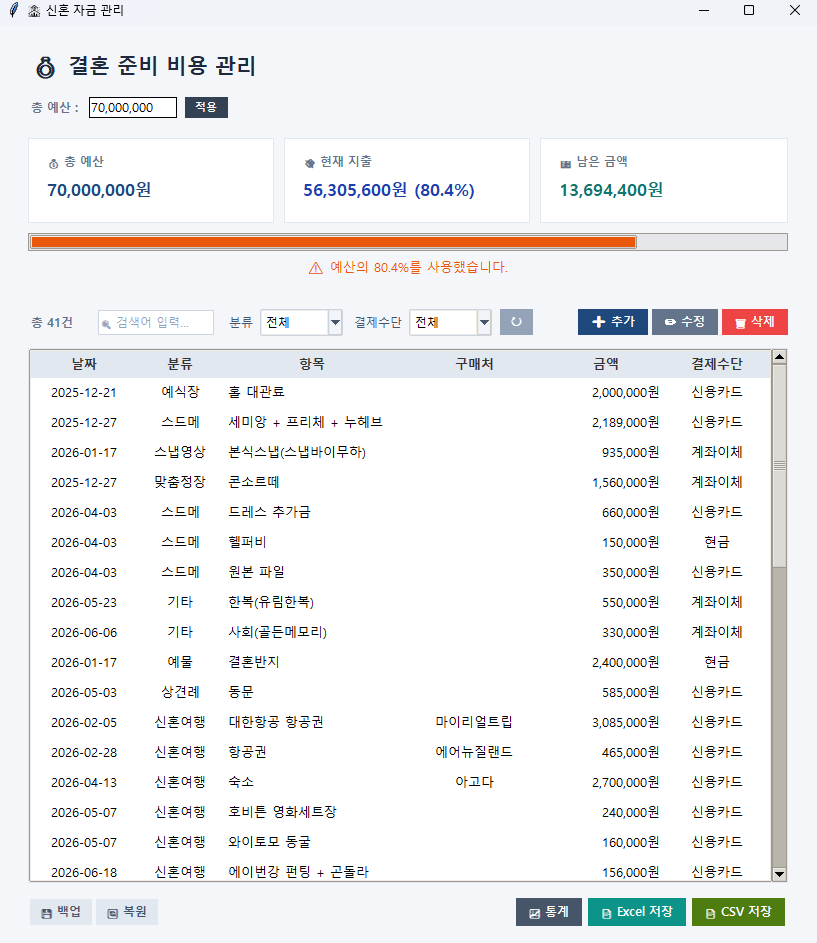
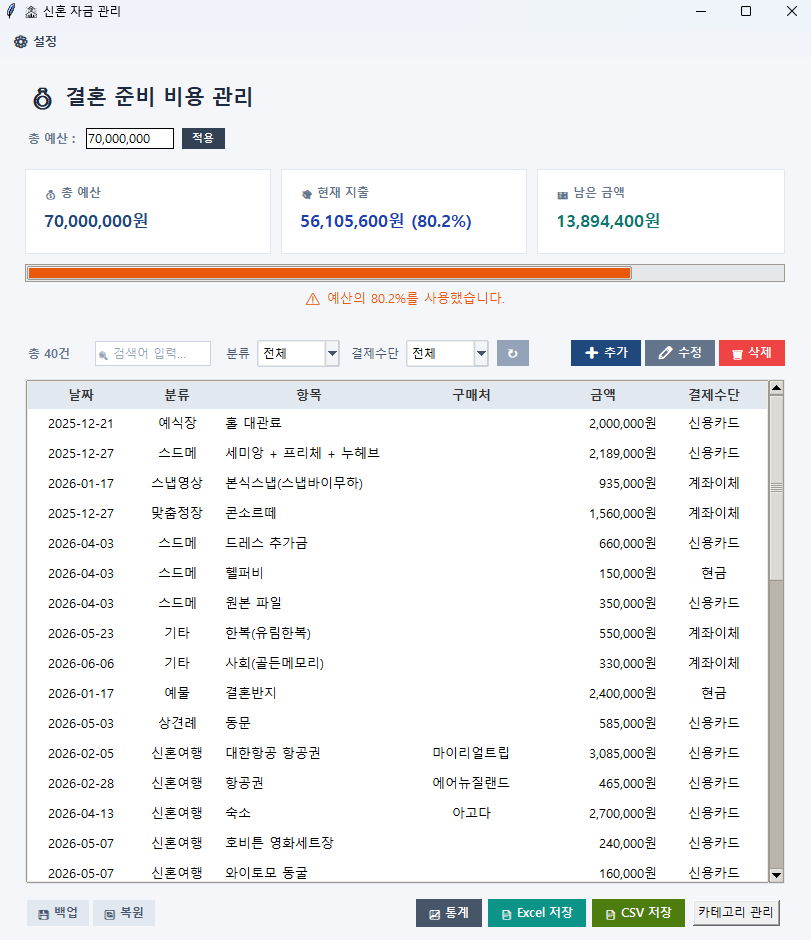
docs: update category management documentation

diff --git a/README.md b/README.md
@@ -1,12 +1,12 @@
 # 💍 WeddingMoneyManager
 
-> **Python Tkinter를 이용해 개발한 신혼 자금 관리 데스크톱 애플리케이션**
+> **Python Tkinter와 SQLite를 기반으로 개발한 신혼 자금 관리 데스크톱 애플리케이션입니다. 예산 관리, 지출 분석, 통계, Excel 리포트 생성 기능을 제공합니다.**
 
 ## 📦 Download
 
 Windows 환경에서는 PyInstaller로 빌드된 실행 파일(`WeddingMoneyManager.exe`)을 통해 사용할 수 있습니다.
 
-> Release 페이지에서 최신 버전을 다운로드할 수 있습니다.
+> Release 페이지에서 최신 Windows 실행 파일을 다운로드할 수 있습니다.
 
 --- 
 
@@ -90,6 +90,15 @@ WeddingMoneyManager는 이러한 비용을 직접 관리하기 위해 개발한 
 * [x] 카테고리별 BarChart 생성
 * [x] 월별 지출 LineChart 생성
 
+## 🗂 카테고리 관리
+
+- [x] 카테고리 추가
+- [x] 카테고리 수정
+- [x] 카테고리 삭제
+- [x] SQLite 기반 카테고리 관리
+- [x] 중복 카테고리 방지
+- [x] 사용 중인 카테고리 삭제 방지
+
 ---
 
 # 🛠 기술 스택
@@ -115,46 +124,51 @@ WeddingMoneyManager는 이러한 비용을 직접 관리하기 위해 개발한 
 WeddingMoneyManager
 │
 ├── main.py
-├── database.py
-├── database_backup.py
-├── expense_dialog.py
-├── statistics_window.py
-├── excel_export.py
-├── csv_export.py
-├── migrate_json_to_sqlite.py
 │
-├── sql/
-│   ├── init.sql
+├── database/
+│   ├── __init__.py
+│   ├── connection.py
+│   ├── init_db.py
+│   ├── expense.py
+│   ├── settings.py
+│   └── category.py
+│
+├── ui/
+│   ├── __init__.py
+│   ├── expense_dialog.py
+│   ├── statistics_window.py
+│   └── category_window.py
+│
+├── utils/
+│   ├── __init__.py
+│   ├── csv_export.py
+│   └── database_backup.py
 │
 ├── excel/
+│   ├── __init__.py
+│   ├── excel_export.py
 │   ├── chart.py
 │   ├── detail.py
 │   ├── summary.py
 │   └── style.py
 │
-├── backup/
-│   ├── app.py
-│   ├── main_backup.py
-│   └── money_backup.json
+├── resources/
+│   └── wedding.db # 배포용 초기 템플릿 DB
 │
 ├── images/
-│   ├── main.png
-│   ├── expense_dialog.png
-│   ├── excel_export_1.png
-│   ├── excel_export_2.png
-│   ├── statistics_1.png
-│   └── statistics_2.png
+│   └── README 이미지
 │
-├── resources
-│   └── wedding.db            # 배포용 초기 템플릿 DB
+├── archive/
+│   ├── app.py
+│   ├── database_legacy.py
+│   ├── main_json.py
+│   └── money_backup.json
 │
-├── icon.ico
+├── migrate_json_to_sqlite.py
 ├── WeddingMoneyManager.spec
-│
+├── icon.ico
 ├── README.md
-├── development_log.md
-├── study.md
-└── requirements.txt
+└── study.md
 ```
 `resources/wedding.db`는 배포용 초기 템플릿 DB이며, 실행 후 생성되는 사용자 데이터 DB는 별도로 관리됩니다.
 
@@ -273,6 +287,21 @@ CREATE TABLE settings (
 ```
 
 ---
+### categories
+
+| Column | Type    | Description  |
+| ------ | ------- | ------------ |
+| id     | INTEGER | 카테고리 ID (PK) |
+| name   | TEXT    | 카테고리 이름      |
+
+```sql
+CREATE TABLE categories (
+    id INTEGER PRIMARY KEY AUTOINCREMENT,
+    name TEXT UNIQUE NOT NULL
+);
+```
+
+---
 
 # 📷 화면
 
@@ -315,11 +344,17 @@ CREATE TABLE settings (
 
 <!-- ![통계](images/statistics.png) -->
 <p align="center">
-  <img src="images/statistics_1.png" width="500">
-  <img src="images/statistics_2.png" width="500">
+  <img src="images/statistics_window_1.png" width="500">
+  <img src="images/statistics_window_2.png" width="500">
 </p>
 
 ---
+
+## 카테고리 관리
+<p align="center">
+  <img src="images/category_window.png" width="200">
+</p>
+
 
 # 🗺 Roadmap
 
@@ -334,12 +369,14 @@ CREATE TABLE settings (
 
 | Version | Description                                                                          |
 | ------- | ------------------------------------------------------------------------------------ |
-| v0.5.0 | 첫 번째 공식 Release / Dashboard UI 개선 / 검색·필터 기능 추가 / ExpenseDialog 분리 / 고유 ID 기반 데이터 관리 |
-| v0.6.0 | Excel Report 기능 추가 / openpyxl 기반 Summary·Detail 시트 생성 / 지출 분석 Dashboard / 차트 기능 구현 |
-| v0.7.0 | Dashboard UI 완성 / Card UI 적용 / 예산·지출·잔액 표시 / ExpenseDialog UI 개선 / 프로젝트 구조 정리 |
-| v0.8.0 | 통계창 완성 / 최근 지출 TOP5 추가 / 버튼 및 레이아웃 개선 / 그래프 디자인 마무리 |
-| v0.9.0 | SQLite 데이터베이스 적용 / JSON → SQLite 마이그레이션 / database.py 분리 / settings 테이블 추가 / DB 기반 CRUD 구현 |
-| v1.0.0 | CSV Export / Database Backup & Restore / SQLite 데이터 관리 개선 / PyInstaller exe 배포 환경 구축 / 초기 DB 리소스 관리 / 사용자 DB 분리 / 배포 환경 안정화 |
+| **v0.5.0** | 첫 번째 공식 Release / Dashboard UI 개선 / 검색·필터 기능 추가 / ExpenseDialog 분리 / 고유 ID 기반 데이터 관리 |
+| **v0.6.0** | Excel Report 기능 추가 / openpyxl 기반 Summary·Detail 시트 생성 / 지출 분석 Dashboard / 차트 기능 구현 |
+| **v0.7.0** | Dashboard UI 완성 / Card UI 적용 / 예산·지출·잔액 표시 / ExpenseDialog UI 개선 / 프로젝트 구조 정리 |
+| **v0.8.0** | 통계창 완성 / 최근 지출 TOP5 추가 / 버튼 및 레이아웃 개선 / 그래프 디자인 마무리 |
+| **v0.9.0** | SQLite 데이터베이스 적용 / JSON → SQLite 마이그레이션 / database.py 분리 / settings 테이블 추가 / DB 기반 CRUD 구현 |
+| **v1.0.0** | CSV Export / Database Backup & Restore / SQLite 데이터 관리 개선 / PyInstaller exe 배포 환경 구축 / 초기 DB 리소스 관리 / 사용자 DB 분리 / 배포 환경 안정화 |
+| **v1.1.0** | Category Management 추가 / categories 테이블 추가 / Category CRUD 구현 / 카테고리 DB 연동 / 프로젝트 패키지 구조 개선 |
+
 
 ---
 

diff --git a/development_log.md b/development_log.md
@@ -276,3 +276,36 @@
 #### Release
 - Release **v1.0.0 준비**
 - Windows exe 배포 환경 구성 완료
+
+---
+
+## 📅 2026-08-07
+
+### Category Management
+
+#### Added
+- SQLite `categories` 테이블 추가
+- 카테고리 관리 창(CategoryWindow) 추가
+- 카테고리 추가 / 수정 / 삭제(CRUD) 기능 구현
+- 지출 등록/수정 창의 카테고리를 데이터베이스와 연동
+
+#### Improvement
+- 중복 카테고리 추가 방지
+- 사용 중인 카테고리 삭제 방지
+- 카테고리 관리 UI 개선
+- MessageBox 부모 창(parent) 지정으로 UI 안정성 개선
+
+#### Refactoring
+- Category 관련 데이터 접근 로직 분리 (`database/category.py`)
+- 카테고리 조회 함수 분리 (`get_category_list`, `get_all_categories`)
+- 프로젝트 패키지 구조 개선
+  - `database/`
+  - `ui/`
+  - `utils/`
+  - `excel/`
+- 기존 `backup` 폴더를 `archive` 폴더로 변경
+
+#### Status
+- v1.1.0 기능 개발 진행 중
+- Category Management 기능 구현 완료
+- 추가 테스트 및 개선 후 Release 예정
